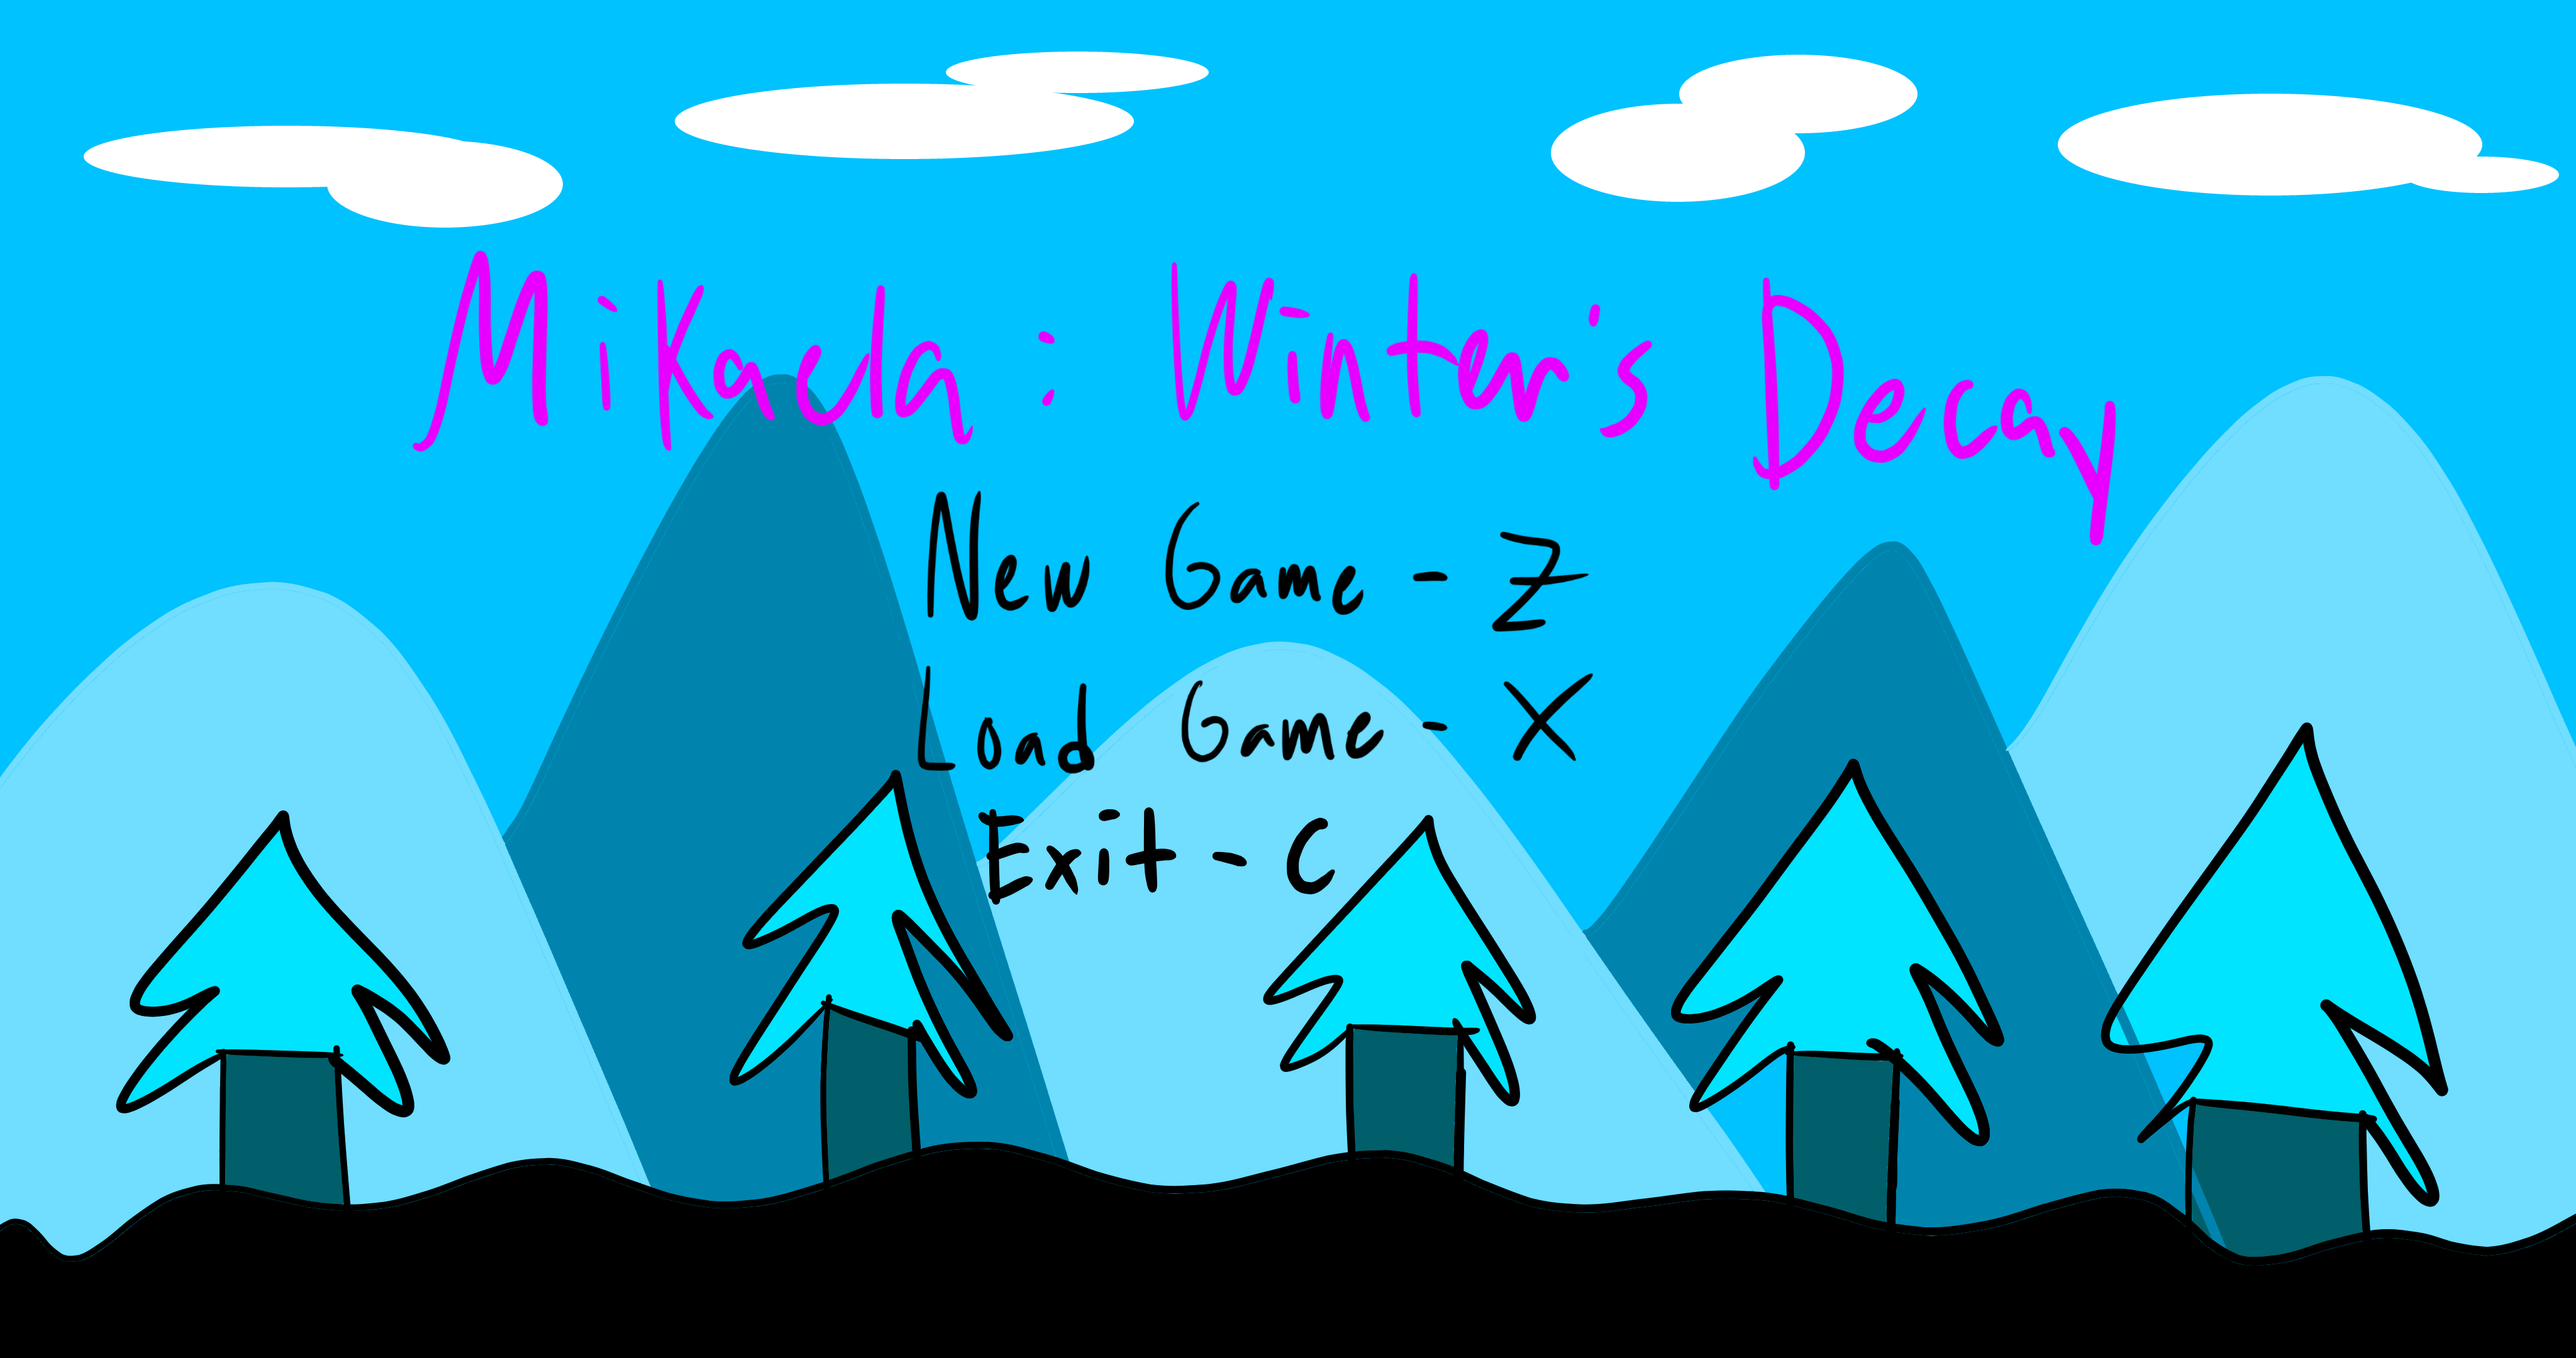
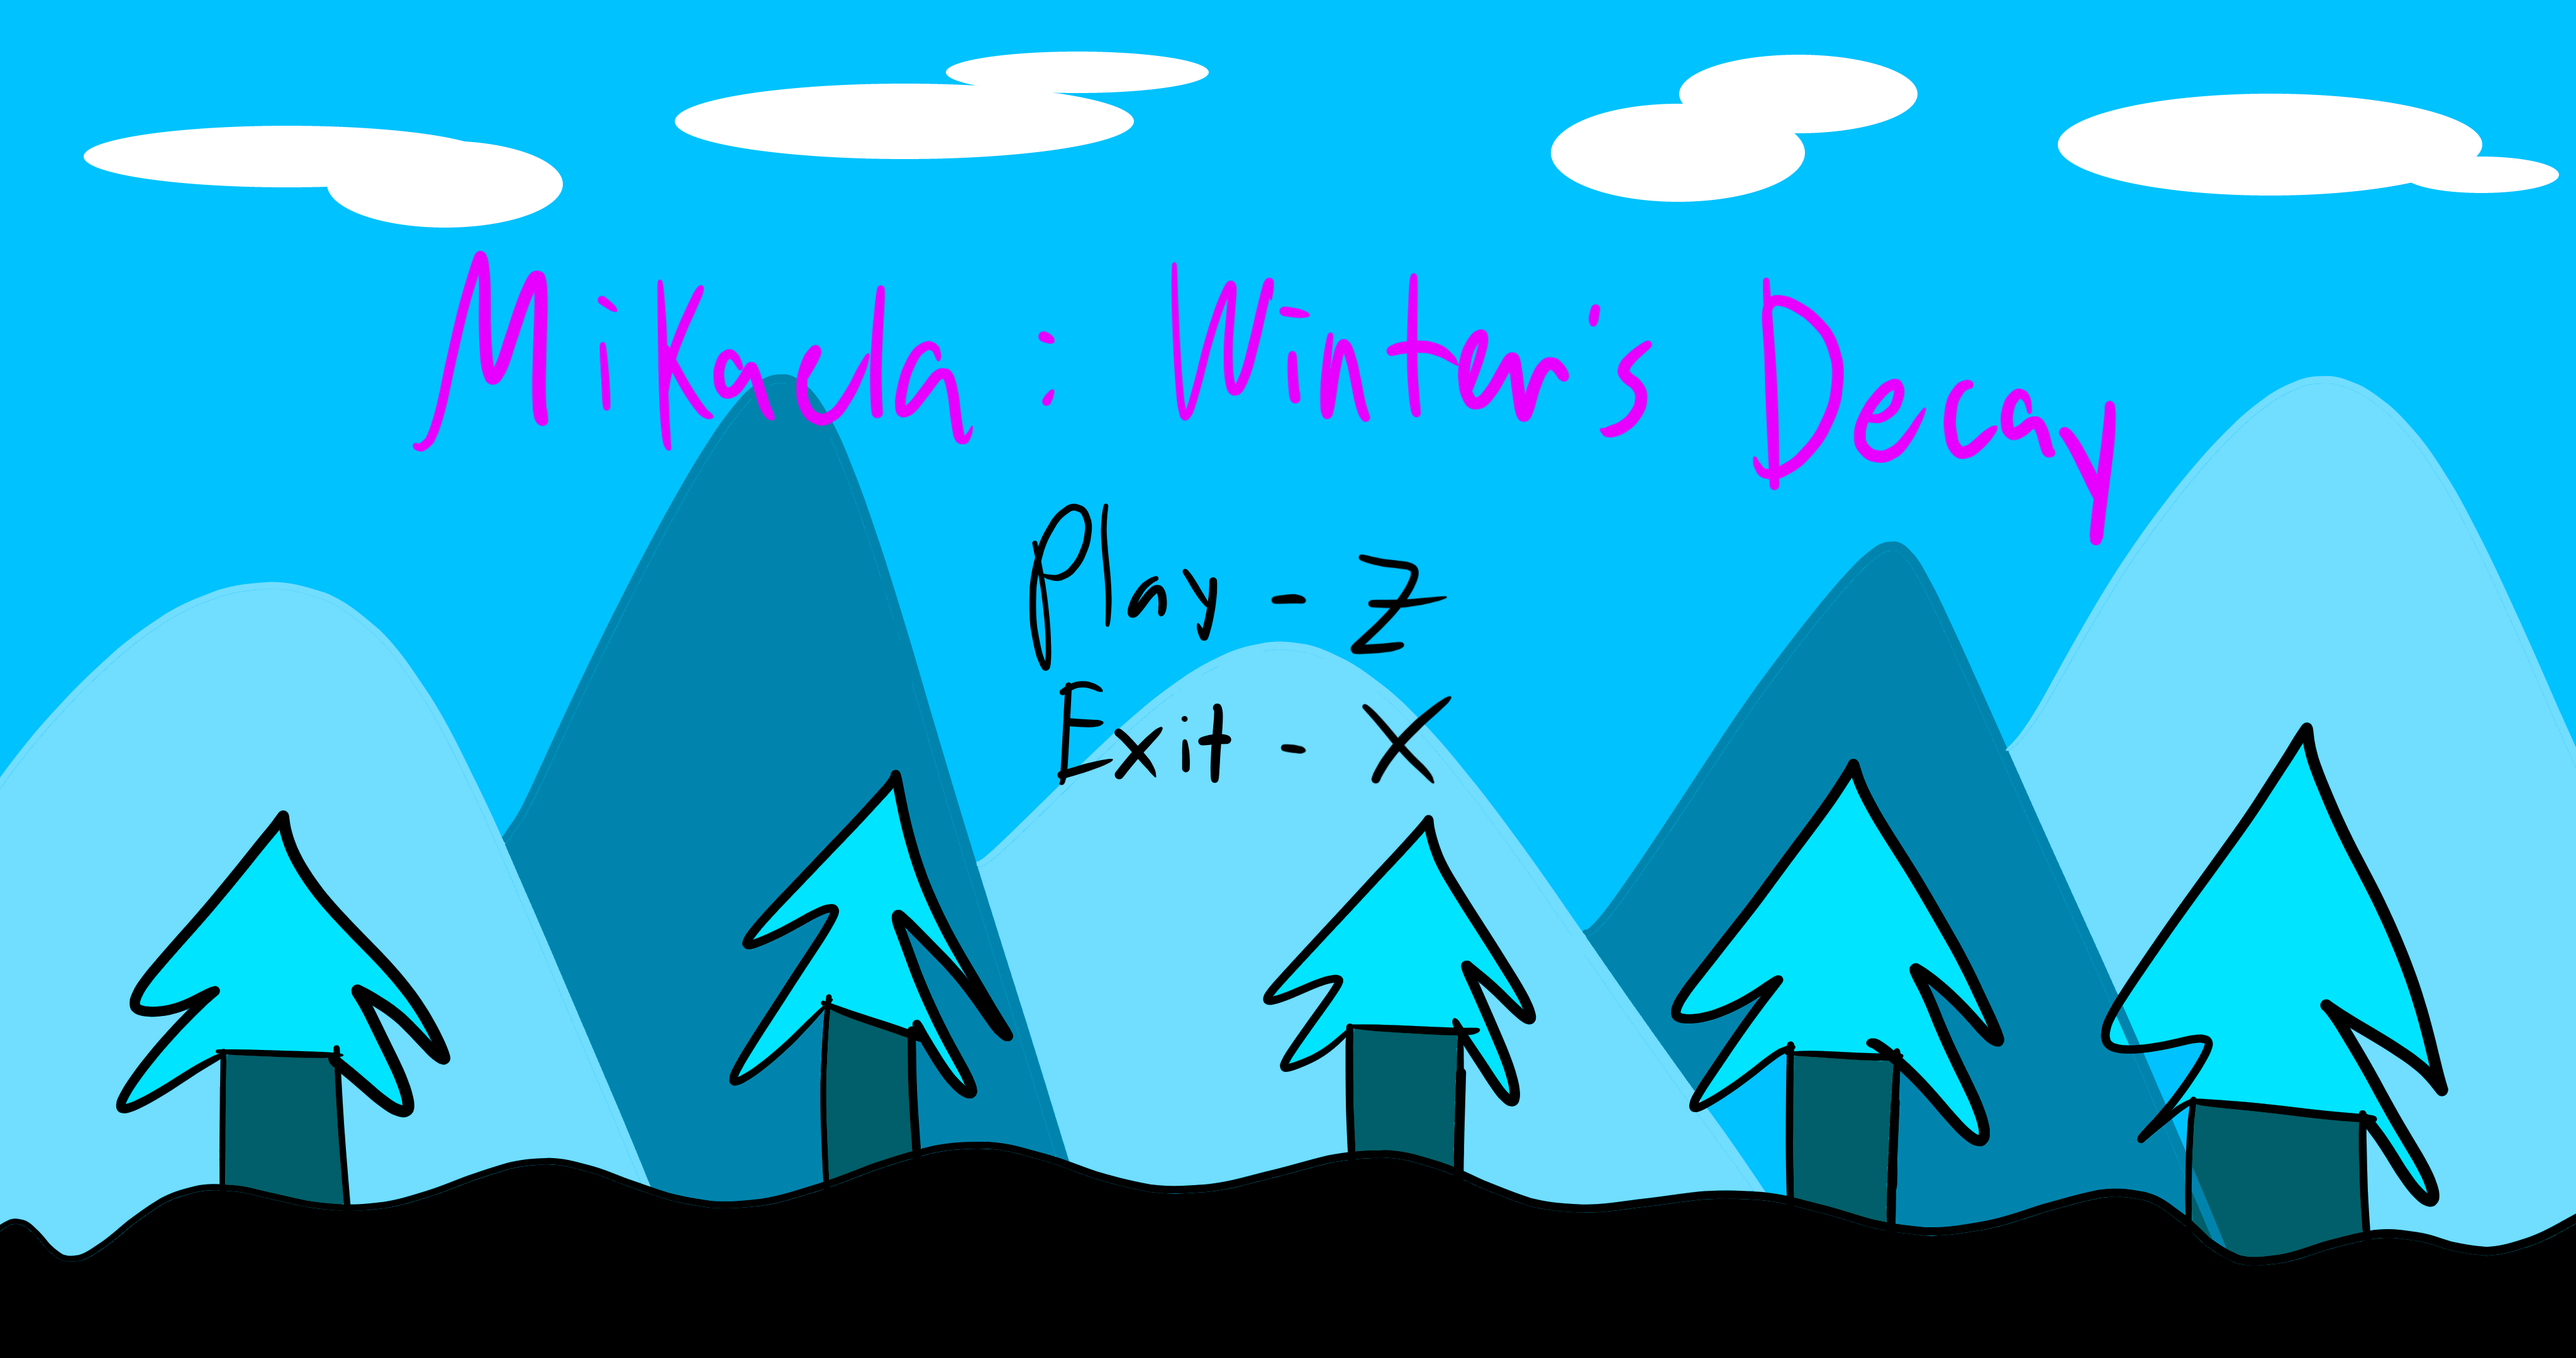
refactor: removed Load Game function from Main Menu

diff --git a/Final Project/Game1.cs b/Final Project/Game1.cs
@@ -513,10 +513,6 @@ namespace Final_Project
                 }
                 else if (Keyboard.GetState().IsKeyDown(Keys.X))
                 {
-                    Load();
-                }
-                else if (Keyboard.GetState().IsKeyDown(Keys.C))
-                {
                     Exit();
                 }
             }
